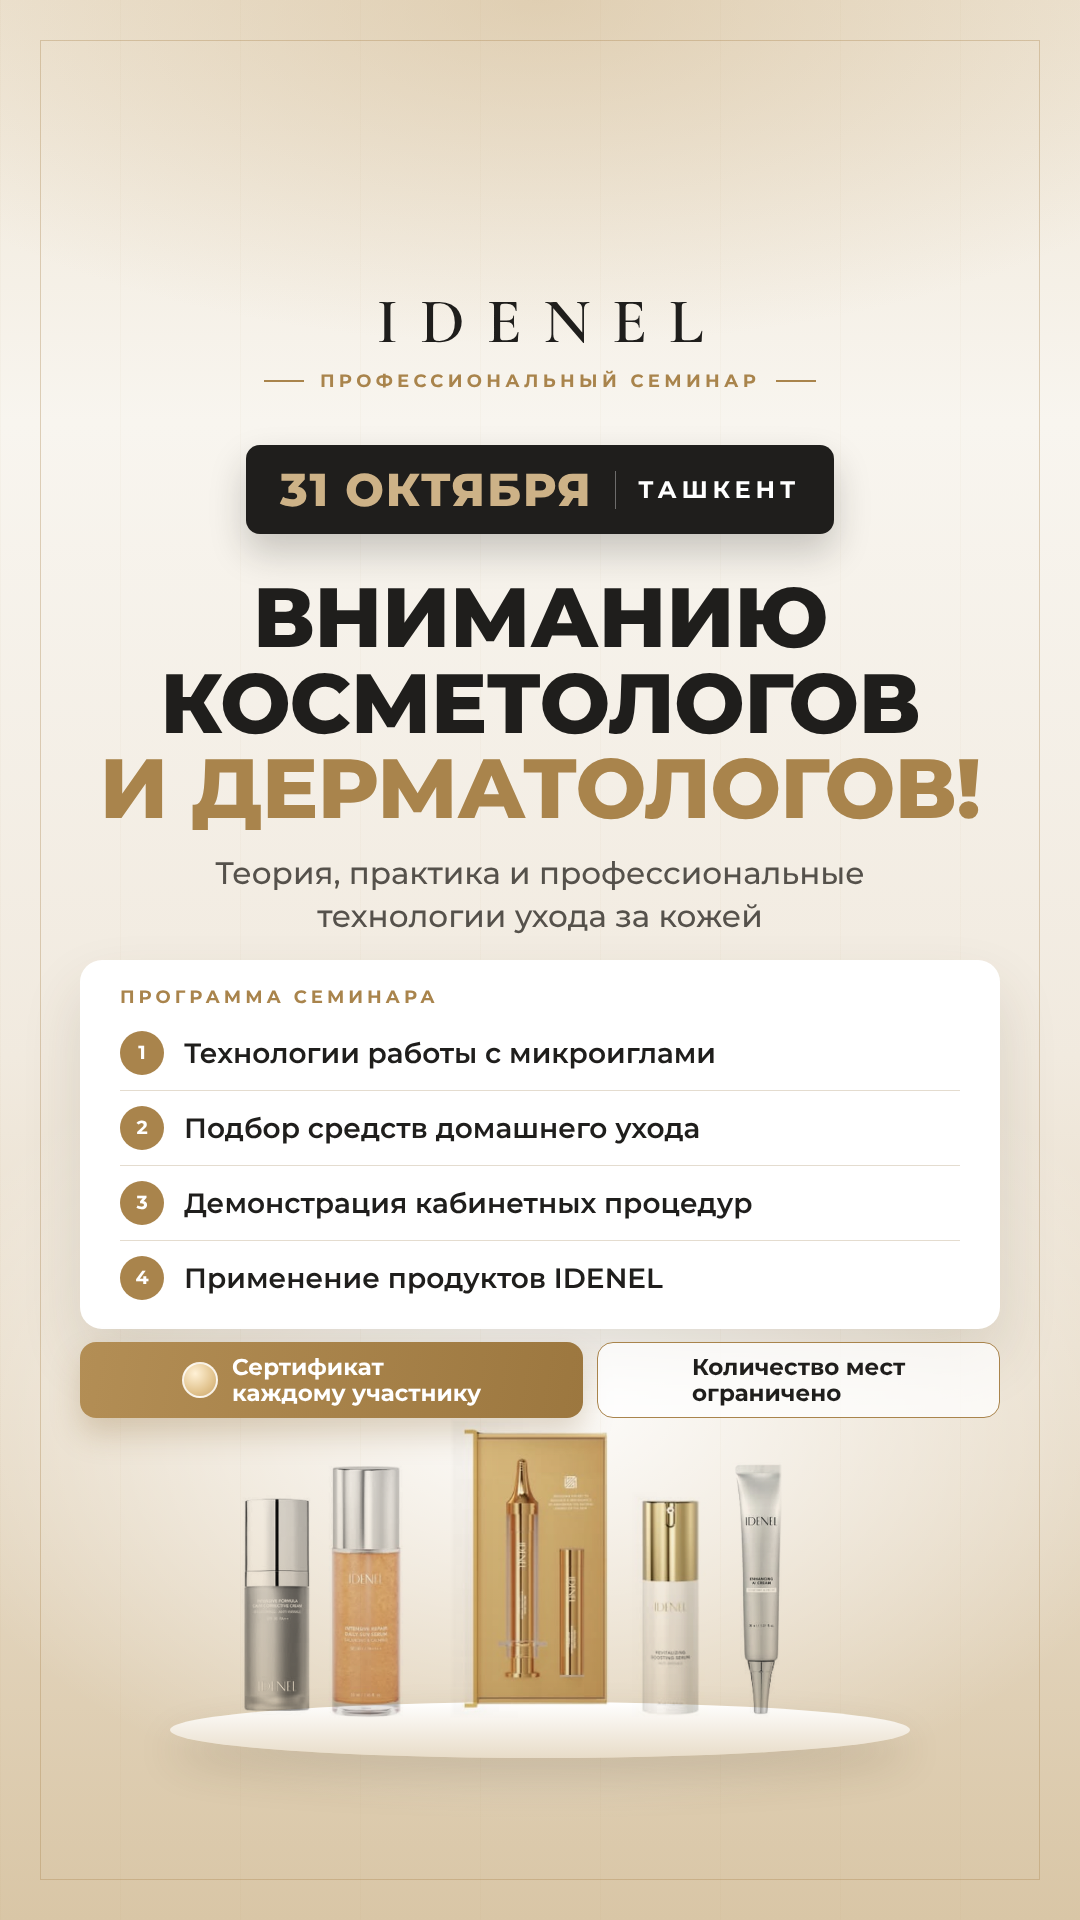
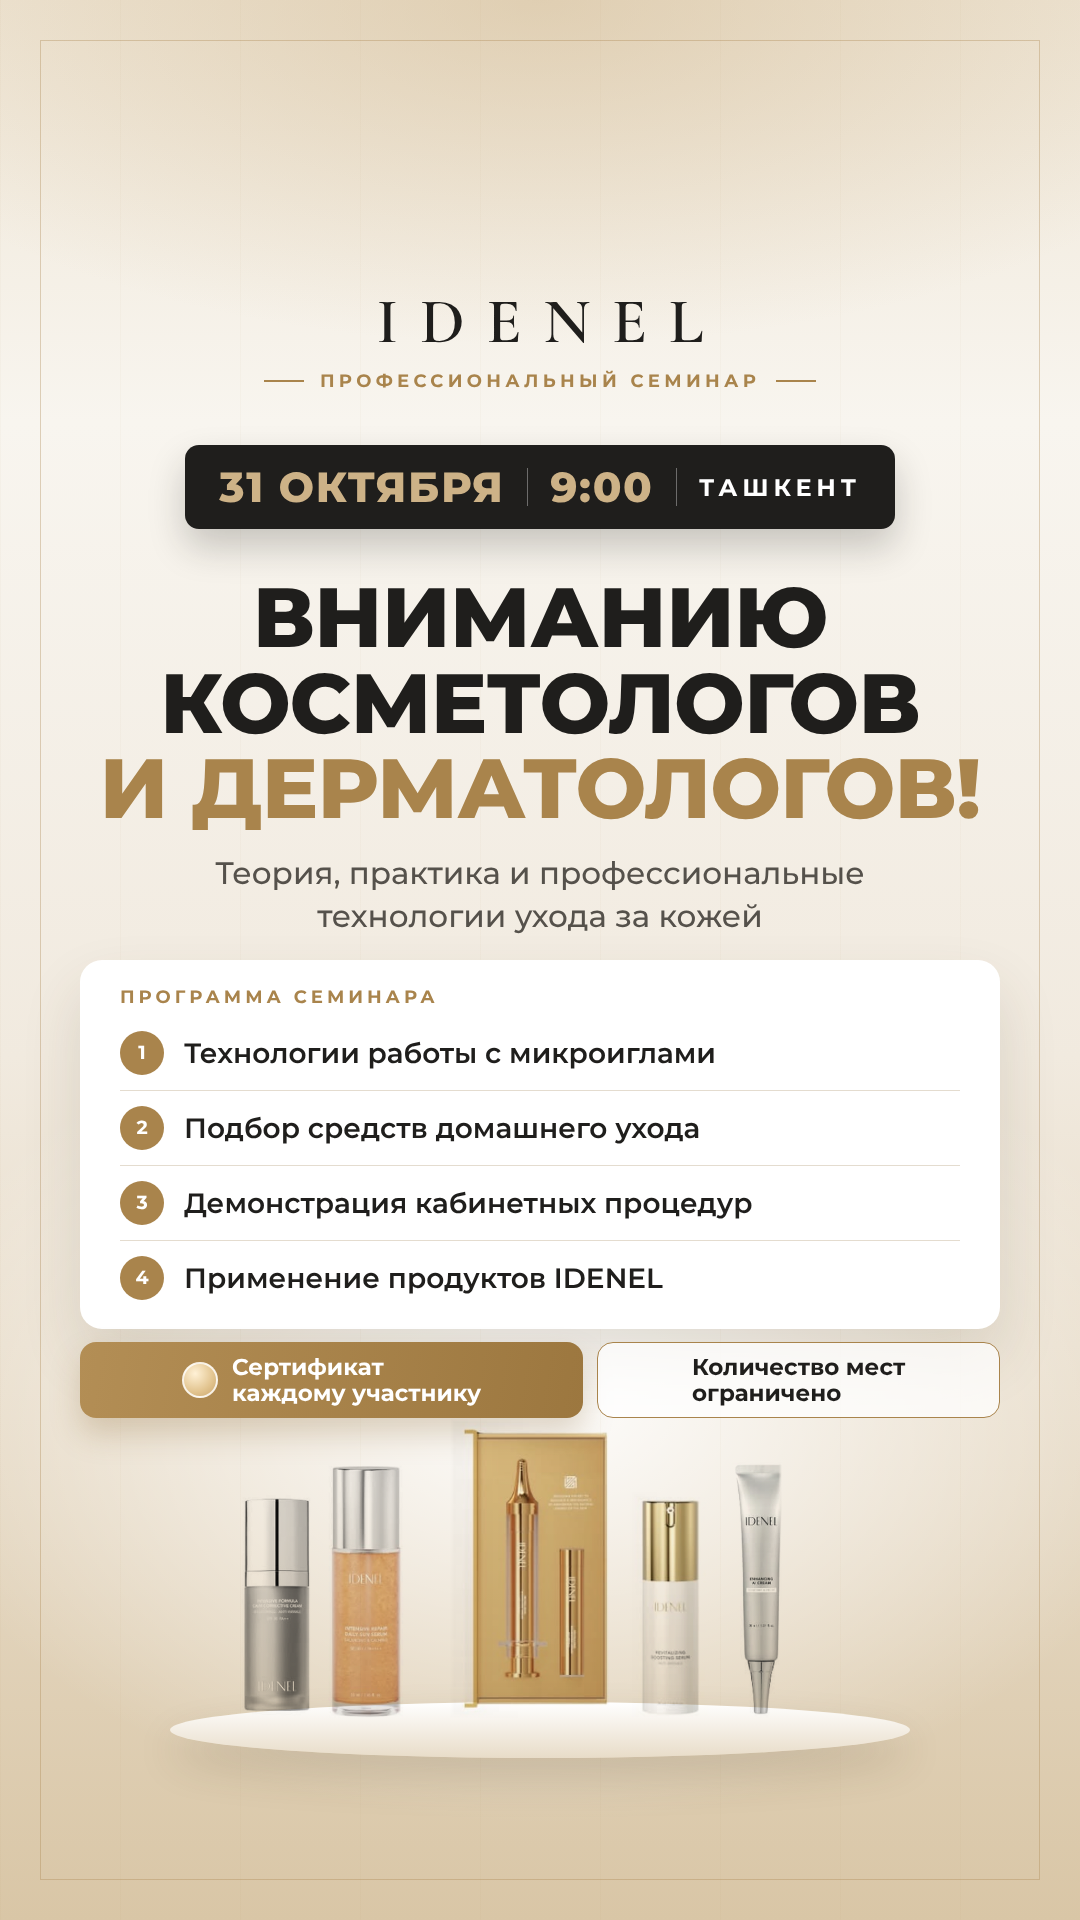
Story ad: add 9:00 start time
Claude-Session: https://claude.ai/code/session_019zeLhuZrvyu55ev7DFEb9D

Changed region(s): [[0.1528, 0.2188, 0.825, 0.2812]]

diff --git a/idenel-carousel/story-ru.html b/idenel-carousel/story-ru.html
@@ -26,7 +26,7 @@ body{background:#DCD7CF;font-family:var(--sans);color:var(--ink)}
 
 .date{position:absolute;left:0;right:0;top:445px;display:flex;justify-content:center}
 .date div{display:flex;align-items:center;gap:22px;background:var(--ink);color:#fff;border-radius:14px;padding:16px 34px;box-shadow:0 18px 36px rgba(31,30,28,.22)}
-.date b{font-size:46px;font-weight:800;letter-spacing:.04em;color:var(--gold-2)}
+.date b{font-size:42px;font-weight:800;letter-spacing:.04em;color:var(--gold-2)}
 .date i{width:1.5px;height:38px;background:rgba(255,255,255,.35)}
 .date span{font-size:24px;font-weight:700;letter-spacing:.2em}
 h1{position:absolute;left:60px;right:60px;top:575px;text-align:center;font-size:84px;line-height:1.02;font-weight:800;letter-spacing:-.01em}
@@ -61,7 +61,7 @@ h1 .gold{color:var(--gold)}
 
   <div class="brand"><div class="m">IDENEL</div><div class="s">ПРОФЕССИОНАЛЬНЫЙ СЕМИНАР</div></div>
 
-  <div class="date"><div><b>31 ОКТЯБРЯ</b><i></i><span>ТАШКЕНТ</span></div></div>
+  <div class="date"><div><b>31 ОКТЯБРЯ</b><i></i><b>9:00</b><i></i><span>ТАШКЕНТ</span></div></div>
 
   <h1>ВНИМАНИЮ<br>КОСМЕТОЛОГОВ<br><span class="gold">И ДЕРМАТОЛОГОВ!</span></h1>
   <p class="lead">Теория, практика и профессиональные технологии ухода за кожей</p>
